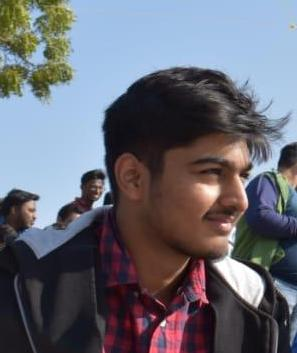
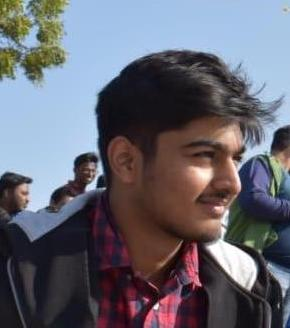
team members updated

diff --git a/src/Pages/blogs/Blog2.js b/src/Pages/blogs/Blog2.js
@@ -1,5 +1,5 @@
-import { Link } from "react-router-dom";
-import "./blog2.css";
+// import { Link } from "react-router-dom";
+import './blog2.css';
 import img_main from '../../assets/img/ibmq.jpeg';
 import img_2 from '../../assets/img/circuit-composer.png';
 import img_4 from '../../assets/img/summerschool.png';
@@ -17,7 +17,7 @@ export default function SinglePost() {
         <br />
         <br />
         <h1 className="singlePostTitle">
-        How IBM is revolutining the quantum world
+          How IBM is revolutining the quantum world
           {/* <div className="singlePostEdit">
             <i className="singlePostIcon far fa-edit"></i>
             <i className="singlePostIcon far fa-trash-alt"></i>
@@ -25,7 +25,6 @@ export default function SinglePost() {
         </h1>
         <br />
         <div className="singlePostInfo">
-
           <span>1 day ago</span>
         </div>
         <p className="singlePostDesc">
@@ -37,15 +36,14 @@ export default function SinglePost() {
           rules of quantum mechanics, which leads them to their peculiar
           behaviour.
         </p>
-          <br />
+        <br />
         <p className="parastyle">
           These devices have shown very promising applications in the past
           couple of years: from something a little obvious like solving linear
           equations in machine learning to like making vaccines.
         </p>
-        <br>
-        </br>
-        <img className="blog-img" src={img_main} alt=""/>
+        <br></br>
+        <img className="blog-img" src={img_main} alt="" />
         <p className="parastyle">
           Keeping these applications in focus the industry is at a big boom with
           all the tech giants wanting to get their hands on commercializable
@@ -57,7 +55,7 @@ export default function SinglePost() {
           softwares, quantum algorithms and much more.
         </p>
         <br />
-        <br />        
+        <br />
         <h3 className="blog-heading">Recent Progress</h3>
         <p className="parastyle">
           As a lot of research is being done all over the globe in this area, we

diff --git a/src/components/sidebar/SideBar.js b/src/components/sidebar/SideBar.js
@@ -1,32 +1,38 @@
 import './sidebar.css';
-import { Card, Button } from 'react-bootstrap';
-import { Link } from "react-router-dom";
-
+import { Card } from 'react-bootstrap';
+import { Link } from 'react-router-dom';
 
 const SideBar = () => {
-  return <div className="sidebar">
-  <Card className="cardstyle">
-    <Card.Img variant="top" src="https://variety.com/wp-content/uploads/2015/07/naruto_movie-lionsgate.jpg?w=1000" width="300px" height="200px" />
-    <Card.Body>
-      <Card.Title className="cardstyle">
-        <span>
-            Author:
-            <b className="singlePostAuthor">
-              <Link className="link" to="/posts?username=Safak">
-                Neo
-              </Link>
-            </b>
-        </span>
-      </Card.Title>
-      <br />
-      <Card.Text>
-        This is a wider card with supporting text below as a natural lead-in to
-        additional content. This content is a little bit longer.
-      </Card.Text>
-      <br />
-    </Card.Body>
-  </Card>
-  </div>;
+  return (
+    <div className="sidebar">
+      <Card className="cardstyle">
+        <Card.Img
+          variant="top"
+          src="https://variety.com/wp-content/uploads/2015/07/naruto_movie-lionsgate.jpg?w=1000"
+          width="300px"
+          height="200px"
+        />
+        <Card.Body>
+          <Card.Title className="cardstyle">
+            <span>
+              Author:
+              <b className="singlePostAuthor">
+                <Link className="link" to="/posts?username=Safak">
+                  Neo
+                </Link>
+              </b>
+            </span>
+          </Card.Title>
+          <br />
+          <Card.Text>
+            This is a wider card with supporting text below as a natural lead-in
+            to additional content. This content is a little bit longer.
+          </Card.Text>
+          <br />
+        </Card.Body>
+      </Card>
+    </div>
+  );
 };
 
 export default SideBar;

diff --git a/src/components/footer/Footer.js b/src/components/footer/Footer.js
@@ -4,6 +4,7 @@ import { Link } from 'react-router-dom';
 import TeamMember from '../teamMember/TeamMember';
 import writer from '../../assets/img/writer.png';
 import developer from '../../assets/img/developer.jpg';
+import developer2 from '../../assets/img/developer2.jpg';
 
 function Footer() {
   return (
@@ -26,6 +27,15 @@ function Footer() {
               about="Content Writer"
               github="https://github.com/singhmeet11"
               img={writer}
+            />
+          </div>
+          <div class="footer-link-items">
+            <TeamMember
+              name="Priyansh Tyagi"
+              about="Developer"
+              github="https://github.com/priyanshty19"
+              linkedin="https://www.linkedin.com/in/priyanshtyagi"
+              img={developer2}
             />
           </div>
         </div>
